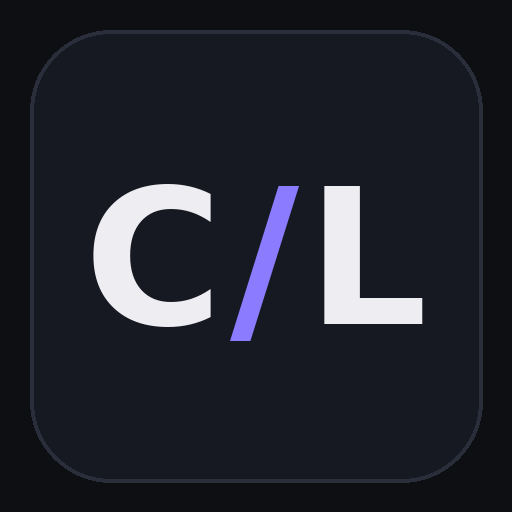
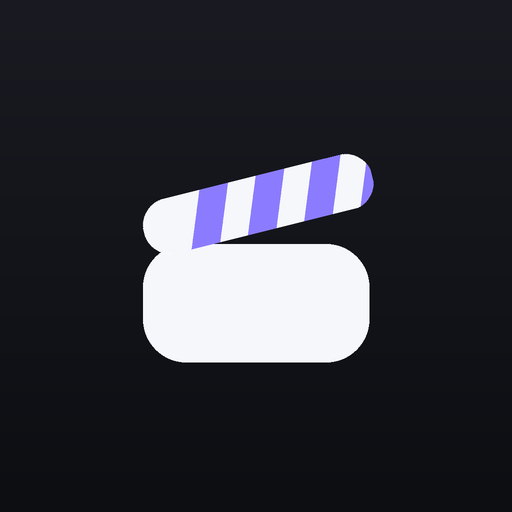
Add files via upload

diff --git a/index.html b/index.html
@@ -6,7 +6,7 @@
 <meta name="theme-color" content="#0e0f13">
 <link rel="manifest" href="manifest.json">
 <link rel="icon" type="image/png" href="icon-192.png">
-<link rel="apple-touch-icon" href="apple-touch-icon.png">
+<link rel="apple-touch-icon" href="apple-touch-icon.png?v=2">
 <meta name="apple-mobile-web-app-capable" content="yes">
 <meta name="mobile-web-app-capable" content="yes">
 <meta name="apple-mobile-web-app-status-bar-style" content="black">